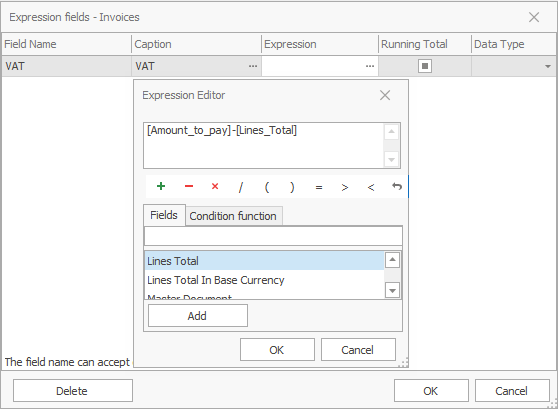
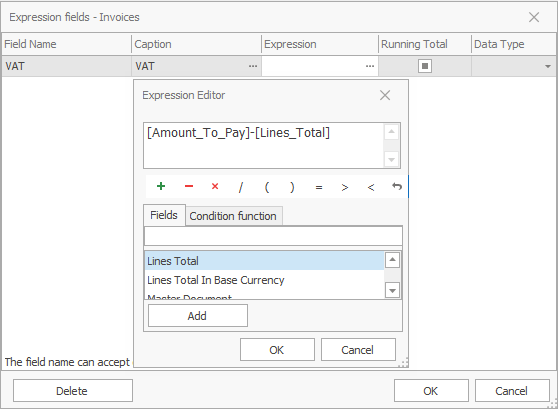
Latest changes from buid bot: 5:36 PM

Changed region(s): [[0.2437, 0.2934, 0.6093, 0.3521]]

diff --git a/docs/introduction/documents/document-state.html b/docs/introduction/documents/document-state.html
@@ -79,18 +79,8 @@
             <article class="content wrap" id="_content" data-uid="">
 <h1 id="document-state">Document state</h1>
 
-<p><b>Document state</b> is a system characteristic that shows you at what stage of completion your document is. The document state has a business meaning, as well as a specific to the program meaning. Additional business meaning can be set via the user statuses. The document system state can be:</p>
-<ul>
-<li><b>New</b> - every new manually created document initially has a New state. This document acts as a <b>draft</b> and traditionally no actions will be initiated by the program for it;</li>
-<li><b>Firm Planned</b> - this is a document, usually automatically created by the system, which needs additional processing. Such documents show <b>events with a possible, but uncertain nature</b>. The documents with the Firm Planned state is used by the planning subsystem of ERP.net Windows Desktop Client. When re-planning, the system will delete these documents. They cannot be deleted if no numerator is applied - in this case, they will be voided;</li>
-<li><b>Confirmed</b> - this is a document, confirmed by an authorized user of the system. It has a <b>probable</b> nature. The confirmed documents reflect the <b>intention for a future</b> release of the document. This is taken into consideration by the planning system and the confirmed documents <b>will not</b> be deleted when re-planning;</li>
-<li><b>Released</b> - a document that is released for execution. The Released state has a specific meaning in the system. It notes that the document has gained its <b>final</b> form and the system <b>forbids</b> any edits, including changing its state to a lower one. Usually, the Released state starts a sequence of system actions. This allows you to create sub-documents;</li>
-<li><b>Completed</b> - this shows the completion of the active work on the document;</li>
-<li><b>Closed</b> - this shows the completion of the entire work on a specific document (process). By using the Closed state, you can optimize the speed of your work by working only with the open documents in the system;</li>
-<li><b>Adjustment</b> - you can only use this state for a document that is an adjustment of another one. By selecting this state, you put the adjustment document into action;</li>
-<li><b>Void</b>.</li>
-</ul>
-<h2 id="changing-state">Changing state</h2>
+<p>The documents in the system have a current STATE. This state determines the effect on the system and whether the document can be updated. The allowed states of the document are <strong>New, Planned, Firm Planned, Released, Completed, Closed and Adjusment</strong>. For more information on the system and business logic of document states, see the [Document states](xref: states) topic in the Tech documentation.</p>
+<h2 id="document-state-changing">Document State Changing</h2>
 <p>You can change the state of a document from the <b>command ribbon &gt;&gt; Home tab</b> by clicking on the desired state.</p>
 <p><img src="pictures/document-state.png" alt="Document State"></p>
 <p>If you need to set or change the document’s user status, click on the arrow under the appropriate system state and choose the desired option.</p>
@@ -99,25 +89,37 @@
 The state <strong>cannot</strong> be changed in the following cases:<br></p>
 <ul>
 <li>From Released state to a lower one (New, Firm Planned, Confirmed);<br></li>
-<li>From Void state to no other;<br></li>
-<li>From Adjustment state to no other, excluding Void state;<br></li>
 <li>In case of a lower state of the sub-documents (e.g., the state of the Sales Order cannot be changed to Completed, if the Store Order's state is Released);<br></li>
+<li>When the document is and Adjustment to another document (its state is Adjustment) <br></li>
+<li>When the document is Voided.</li>
 <li>In some cases when the document flow is being branched.</li>
 </ul>
 <h2 id="voiding">Voiding</h2>
 <p>ERP.net Windows Desktop Client has proven its security and reliability as a system. Information loss of any form is not allowed. Part of this concept is the <b>inability to delete documents</b> irreversibly and completely. When necessary, you can void a document. This will save a copy in the database, but it won’t display in the reports (unless you specify that you need to see those copies).</p>
-<p>Void has three variations – <strong>Void</strong> (only the current document); <strong>Void with sub-documents</strong> (if their state is lower than released); <strong>Void with sub-documents, including released</strong>. The necessity for those variations comes from safety precautions. If a given user has the right to void any documents from the flow, this may affect the work of other departments (warehouse, finance, accounting). Users can only void the documents they have rights to. They are not able to void sub-documents without having rights to them.</p>
+<p>Void has three variations:</p>
+<ul>
+<li><strong>Void</strong> (only the current document);</li>
+<li><strong>Void with sub-documents</strong> (if their state is lower than released);</li>
+<li><strong>Void with sub-documents, including released</strong>.</li>
+</ul>
+<p>The necessity for those variations comes from safety precautions. If a given user has the right to void any documents from the flow, this may affect the work of other departments (warehouse, finance, accounting). Users can only void the documents they have rights to. They are not able to void sub-documents without having rights to them.</p>
 <p>When you select to void a document, the system will open a new window first, asking for the reason for voiding this document:</p>
 <p><img src="pictures/void.png" alt="Void"></p>
 <p>If the system does not allow voiding a document, the likely reasons are: <br></p>
 <ul>
-<li>The user does not have the right to void a document. The solution to this problem is giving that user the required rights or making another user execute the voiding operation. <br></li>
-<li>Branched flow - it is possible that the document connects to other documents indirectly. In this situation, you need to void the connected documents first (for example, those branches occur when selling goods, using execution navigators, etc.).</li>
+<li>The user does not have the right to void the document. The solution to this problem is giving that user the required rights or making another user execute the voiding operation. <br></li>
+<li>The document is referencing another document - it is possible that the document connects to other documents indirectly. In this situation, you need to void the referencied documents first (for example, those references occur when using functional navigators, etc.).</li>
 </ul>
 <h2 id="completing">Completing</h2>
-<p>Completed – this state marks the completion of the document. By default, completed documents will not be visible in the navigators, unless you specifically set them to be displayed.<br></p>
-<p>The Completion has three variations – <b>Complete</b>  (only for the current document), <b>Complete with sub-documents</b>  (if the sub-documents are in a state <b>not</b> lower than released), <b>Complete with sub-documents, including unreleased</b>. The necessity for those variations comes from safety precautions. If a user has the right to complete any documents from the flow, this can affect the work of other departments (warehouse, finances, accounting). Users can only complete the documents that they have the right to. They are not able to complete sub-documents without having rights to them.<br></p>
-<p>When a given user tries to <b>complete</b> a document with sub-documents, the system will automatically stop this process if there is a conflict, such as unreleased sub-documents. The system will check whether you have completed the sub-documents (they must have Released state at least). If you have released/completed them and the user has the required rights, then the process is going to be ready for completion. If they are not, you will see an error and you have to clear it (release the sub-documents) in order to complete the current document.</p>
+<p>Completed – this state marks the completion of the document. By default, completed documents will not be visible in the navigators, unless you explicitly show them.<br></p>
+<p>The Completion has three variations:</p>
+<ul>
+<li><b>Complete</b>  (only for the current document);</li>
+<li><b>Complete with sub-documents</b>  (if the sub-documents are in a state <b>not</b> lower than released)</li>
+<li><b>Complete with sub-documents, including unreleased</b>.</li>
+</ul>
+<p>The necessity for those variations comes from safety precautions. If a user has the right to complete any documents from the flow, this can affect the work of other departments (warehouse, finances, accounting). Users can only complete the documents that they have the right to. They are not able to complete sub-documents without having rights to them.<br></p>
+<p>When a given user tries to <b>complete</b> a document with sub-documents, the system will automatically stop this process if there is a conflict, such as unreleased sub-documents. The system will check whether you have completed the sub-documents (they must have Released state at least). If you have released/completed them and the user has the required rights, then the process is going to be ready for completion. If not, you will see an error.</p>
 </article>
           </div>
           

diff --git a/docs/introduction/fields-management/expression-fields.html b/docs/introduction/fields-management/expression-fields.html
@@ -79,7 +79,8 @@
             <article class="content wrap" id="_content" data-uid="">
 <h1 id="expression-fields">Expression fields</h1>
 
-<p><b>Expression fields</b> are created by the customer in the database. You can use them to generate formulas and create new fields where the formula calculations are applied. The formula <b>cannot</b> include values from other expression fields.</p>
+<p><b>Expression fields</b> are created by the customer in the database. You can use them to generate formulas and create new fields where the formula calculations are applied.
+The formula can include values from other expression fields. In this case, the expression fields which are included should also be shown in the view and its position have to precede the expression field in whose formula they participate in.</p>
 <p><img src="pictures/expression-formula3.png" alt="Expression formula"></p>
 <p>Open the expression fields form from: <b>Data→Expression fields</b></p>
 <p><img src="pictures/expf-ribbon.png" alt="Expression fields ribbon"></p>
@@ -89,14 +90,14 @@
 <li><b>Title</b>: VAT</li>
 <li><b>Formula</b>: press the <img src="pictures/etc.png" alt="etc">  button</li>
 </ul>
-<p>A <b>formula editor</b> opens. It is separated into three regions – the first one shows the formula; the middle one – various actions than can be executed; the last one is a fields panel where the fields included in the formula can be selected.</p>
+<p>A <b>formula editor</b> opens. It is separated into three regions – the first one shows the formula; the middle one – is a quick acces toolbar for adding symbols into the formula; the last one is a fields panel where can be selected the fields which can be included to the formula.</p>
 <p><strong>Example</strong>:</p>
 <ul>
-<li>select <b>Amount to pay</b></li>
+<li>select <b>Amount To Pay</b></li>
 <li>select the ‘<b>-</b>’ symbol</li>
-<li>select <b>Lines total</b></li>
+<li>select <b>Lines Total</b></li>
 </ul>
-<p>The value in the new field will be summed by the formula: <b>Amount to pay</b> – <b>Lines total</b> = <b>VAT</b> field</p>
+<p>The value in the new field will be summed by the formula: <b>[Amount_To_Pay]</b> – <b>[Lines_Total]</b> = <b>VAT</b> field</p>
 <p><img src="pictures/Calculated-fform.png" alt="Expression fields form"></p>
 <p>Click <b>OK</b> to close the <b>Expression editor</b> or the <b>Expression fields </b> form.</p>
 <p>The <b>VAT</b> field shows up in the data panel.</p>
